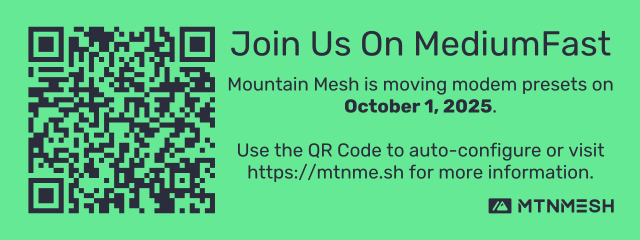
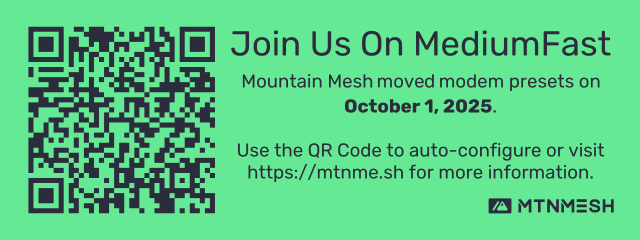
remove LongFast config/fix tense (#76)
* remove LongFast config
 - removed LongFast config from config.md
 - updated language in a couple spots to be past tense
 - updated mediumfast_flyer.png language to be past tense

* s/info/view

Fix dead link in config.md

---------

Changed region(s): [[0.3438, 0.2917, 0.9688, 0.3792]]

diff --git a/docs/config.md b/docs/config.md
@@ -25,9 +25,7 @@ These settings are intended to facilitate a stable and reliable mesh network. Th
 ### LoRa
 
 !!! warning
-    Mountain Mesh members are migrating from the default LongFast modem preset to MediumFast on October 1, 2025. We're keeping LongFast settings here for now until the migration date. For more information, see the [MediumFast Migration Page](/mediumfast)
-
-**MediumFast Config**
+As of October 1, 2025, Mountain Mesh members flipped their nodes over to the MediumFast modem preset. For more information, see the [MediumFast Migration Page](/mediumfast)
 
 |         Option | Recommended Config | Notes                                                                                            |
 | -------------: | :----------------- | :----------------------------------------------------------------------------------------------- |
@@ -35,18 +33,7 @@ These settings are intended to facilitate a stable and reliable mesh network. Th
 |  ^^Hop limit^^ | `5`                | Please do not set this higher than `6`. :pray:                                                   |
 | Frequency Slot | 45                 | This is the default. It equates to 913.125 MHz                                                   |
 |    Ignore MQTT | `True`             | This is enabled on most `ROUTER` nodes in our mesh.                                              |
-|     OK to MQTT | `True`             | Added in `2.5.0`. Enable to show up on online tools like [info.MtnMe.sh](https://info.mtnme.sh). |
-
-
-**LongFast Config**
-
-|         Option | Recommended Config | Notes                                                                                            |
-| -------------: | :----------------- | :----------------------------------------------------------------------------------------------- |
-|   Modem Preset | LONG_FAST          | This is the default.                                                                             |
-|  ^^Hop limit^^ | `5`                | Please do not set this higher than `6`. :pray: The mesh thanks you.                              |
-| Frequency Slot | 20                 | This is the default. It equates to 906.875 MHz                                                   |
-|    Ignore MQTT | `True`             | This is enabled on most `ROUTER` nodes in our mesh.                                              |
-|     OK to MQTT | `True`             | Added in `2.5.0`. Enable to show up on online tools like [info.MtnMe.sh](https://info.mtnme.sh). |
+|     OK to MQTT | `True`             | Added in `2.5.0`. Enable to show up on online tools like [view.MtnMe.sh](https://view.mtnme.sh). |
 
 
 ## Module configuration

diff --git a/docs/mediumfast.md b/docs/mediumfast.md
@@ -22,7 +22,7 @@ Click the image above to access the auto-configuration URL or scan the QR code u
 
     This will NOT change your node's network role (Client, Client_Mute, etc.)
 
-## Why We're Moving Modem Presets
+## Why We Moved Modem Presets
 
 All Meshtastic devices default to LongFast out of the box. That's a great preset for getting a small mesh off the ground, but once you get more than 60 nodes chatting in an area, you start getting message collisions. More collisions means dropped packets, network congestion and decreased performance. Considering that some node DBs have more than 200 nodes and channel usage above 45%, we're well past that threshold for migration.
 
